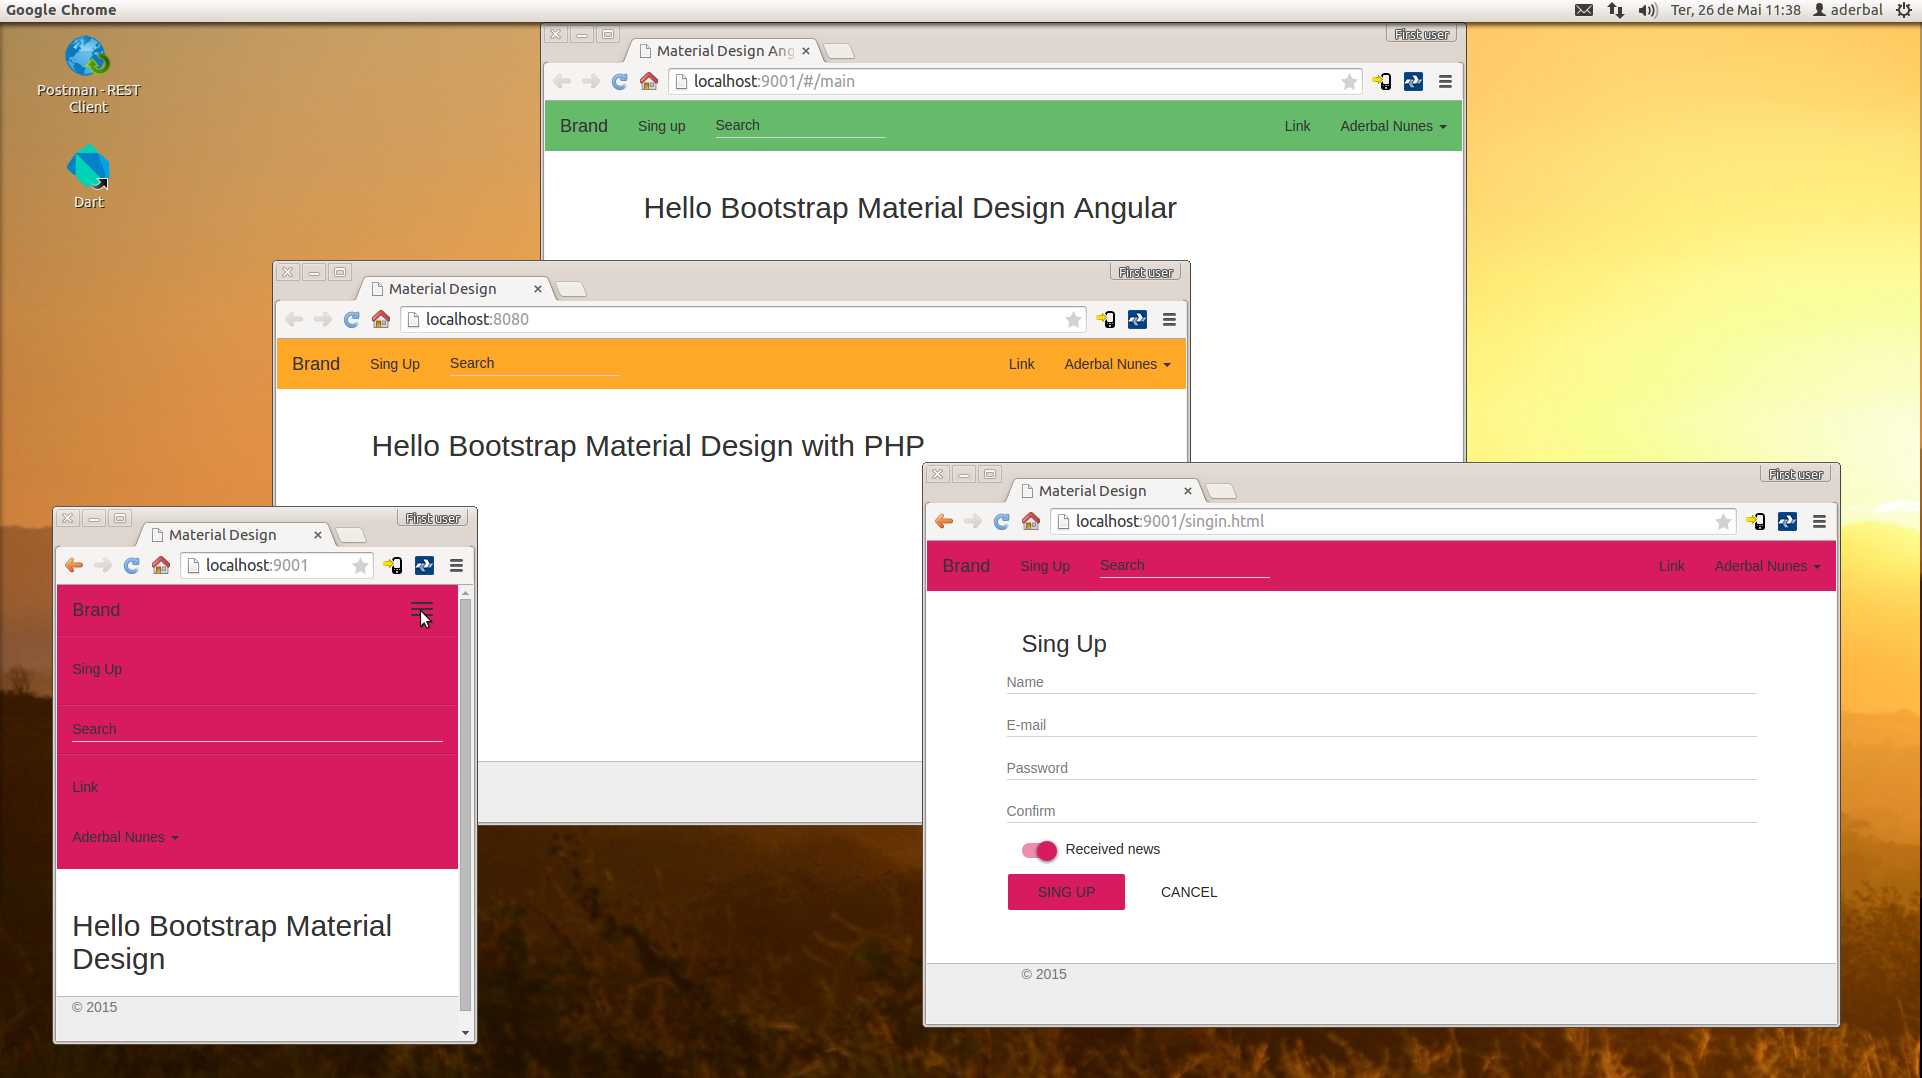
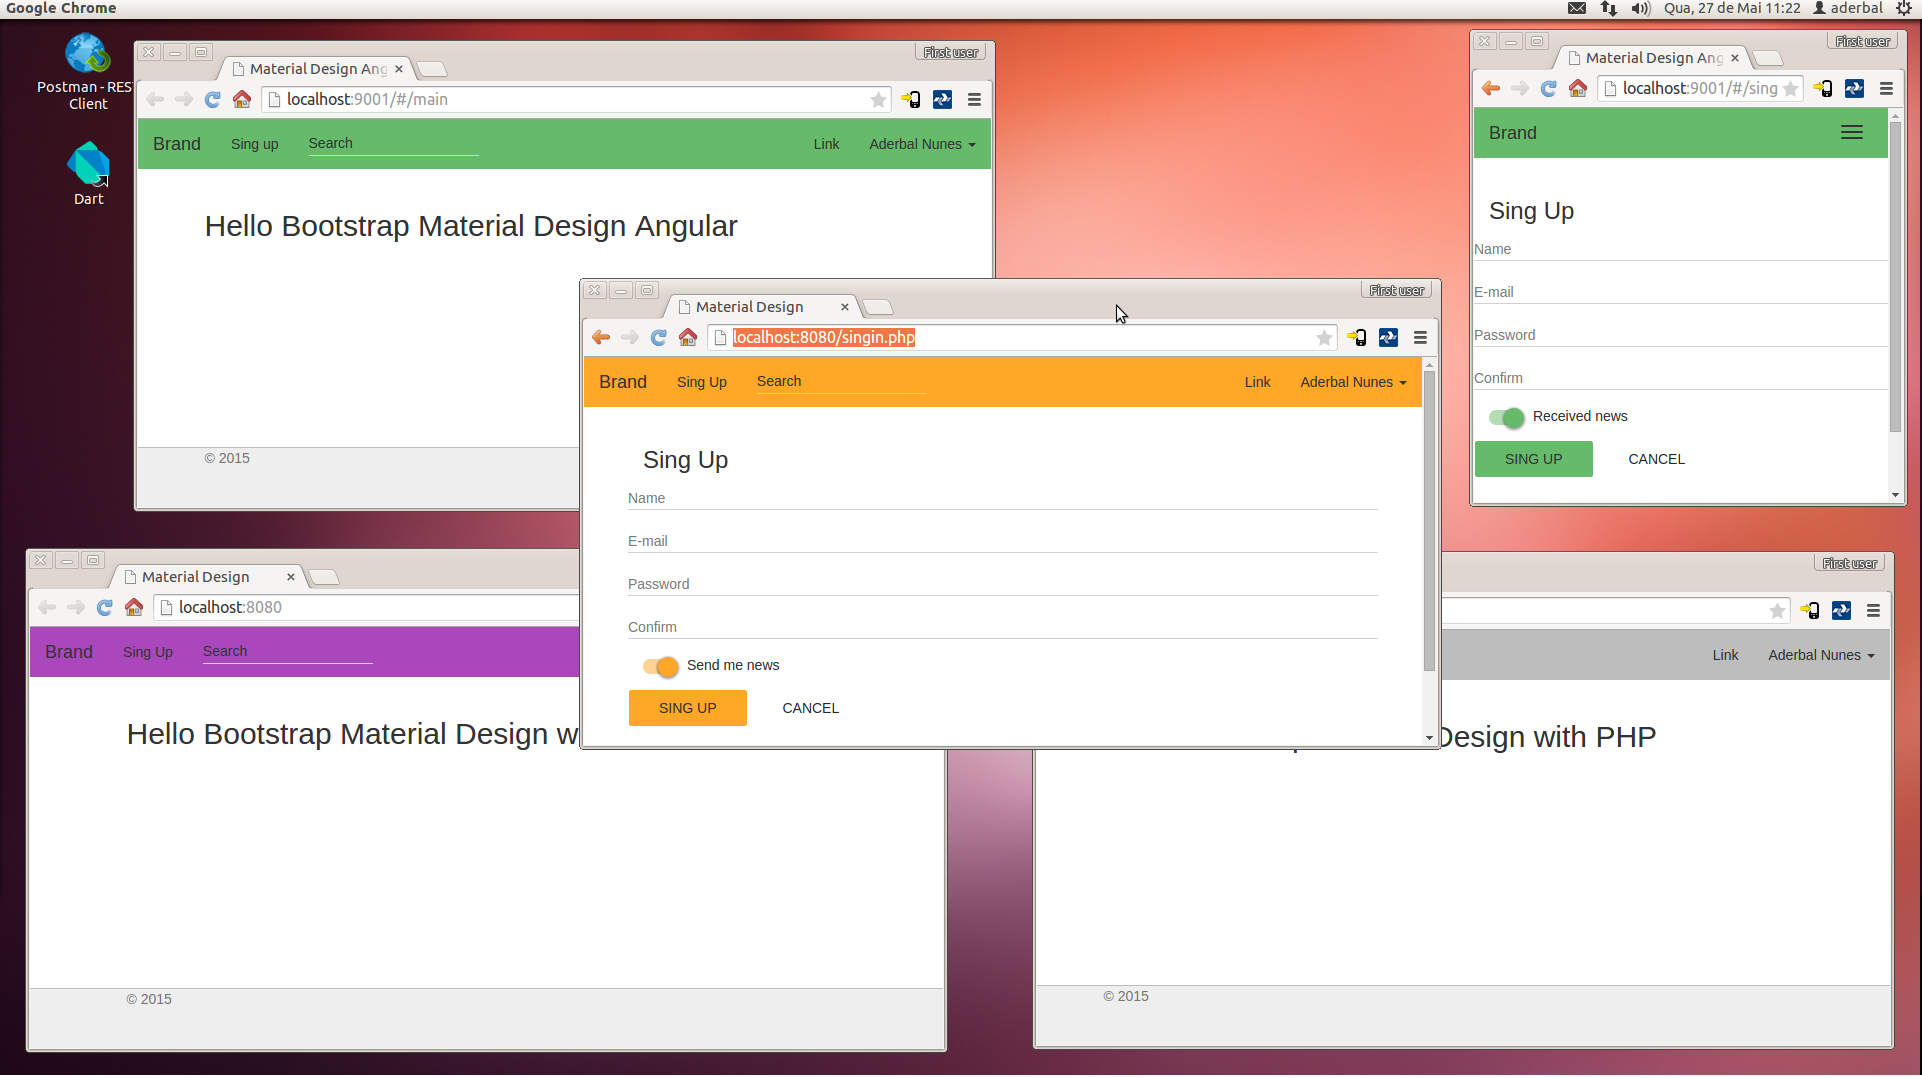
New print

diff --git a/php/dev/less/main.less b/php/dev/less/main.less
@@ -3,7 +3,7 @@
 @import "../../bower_components/bootstrap-material-design/less/material.less";
 
 // Override @primary color with one took from _colors.less
-@primary: @orange-400;
+@primary: @grey-400;
 
 
 

diff --git a/php/dev/singin.php b/php/dev/singin.php
@@ -31,7 +31,7 @@
 
         <div class="togglebutton">
           <label>
-            <input type="checkbox" checked="checked"> Received news
+            <input type="checkbox" checked="checked"> Send me news
           </label>
         </div> 
 
